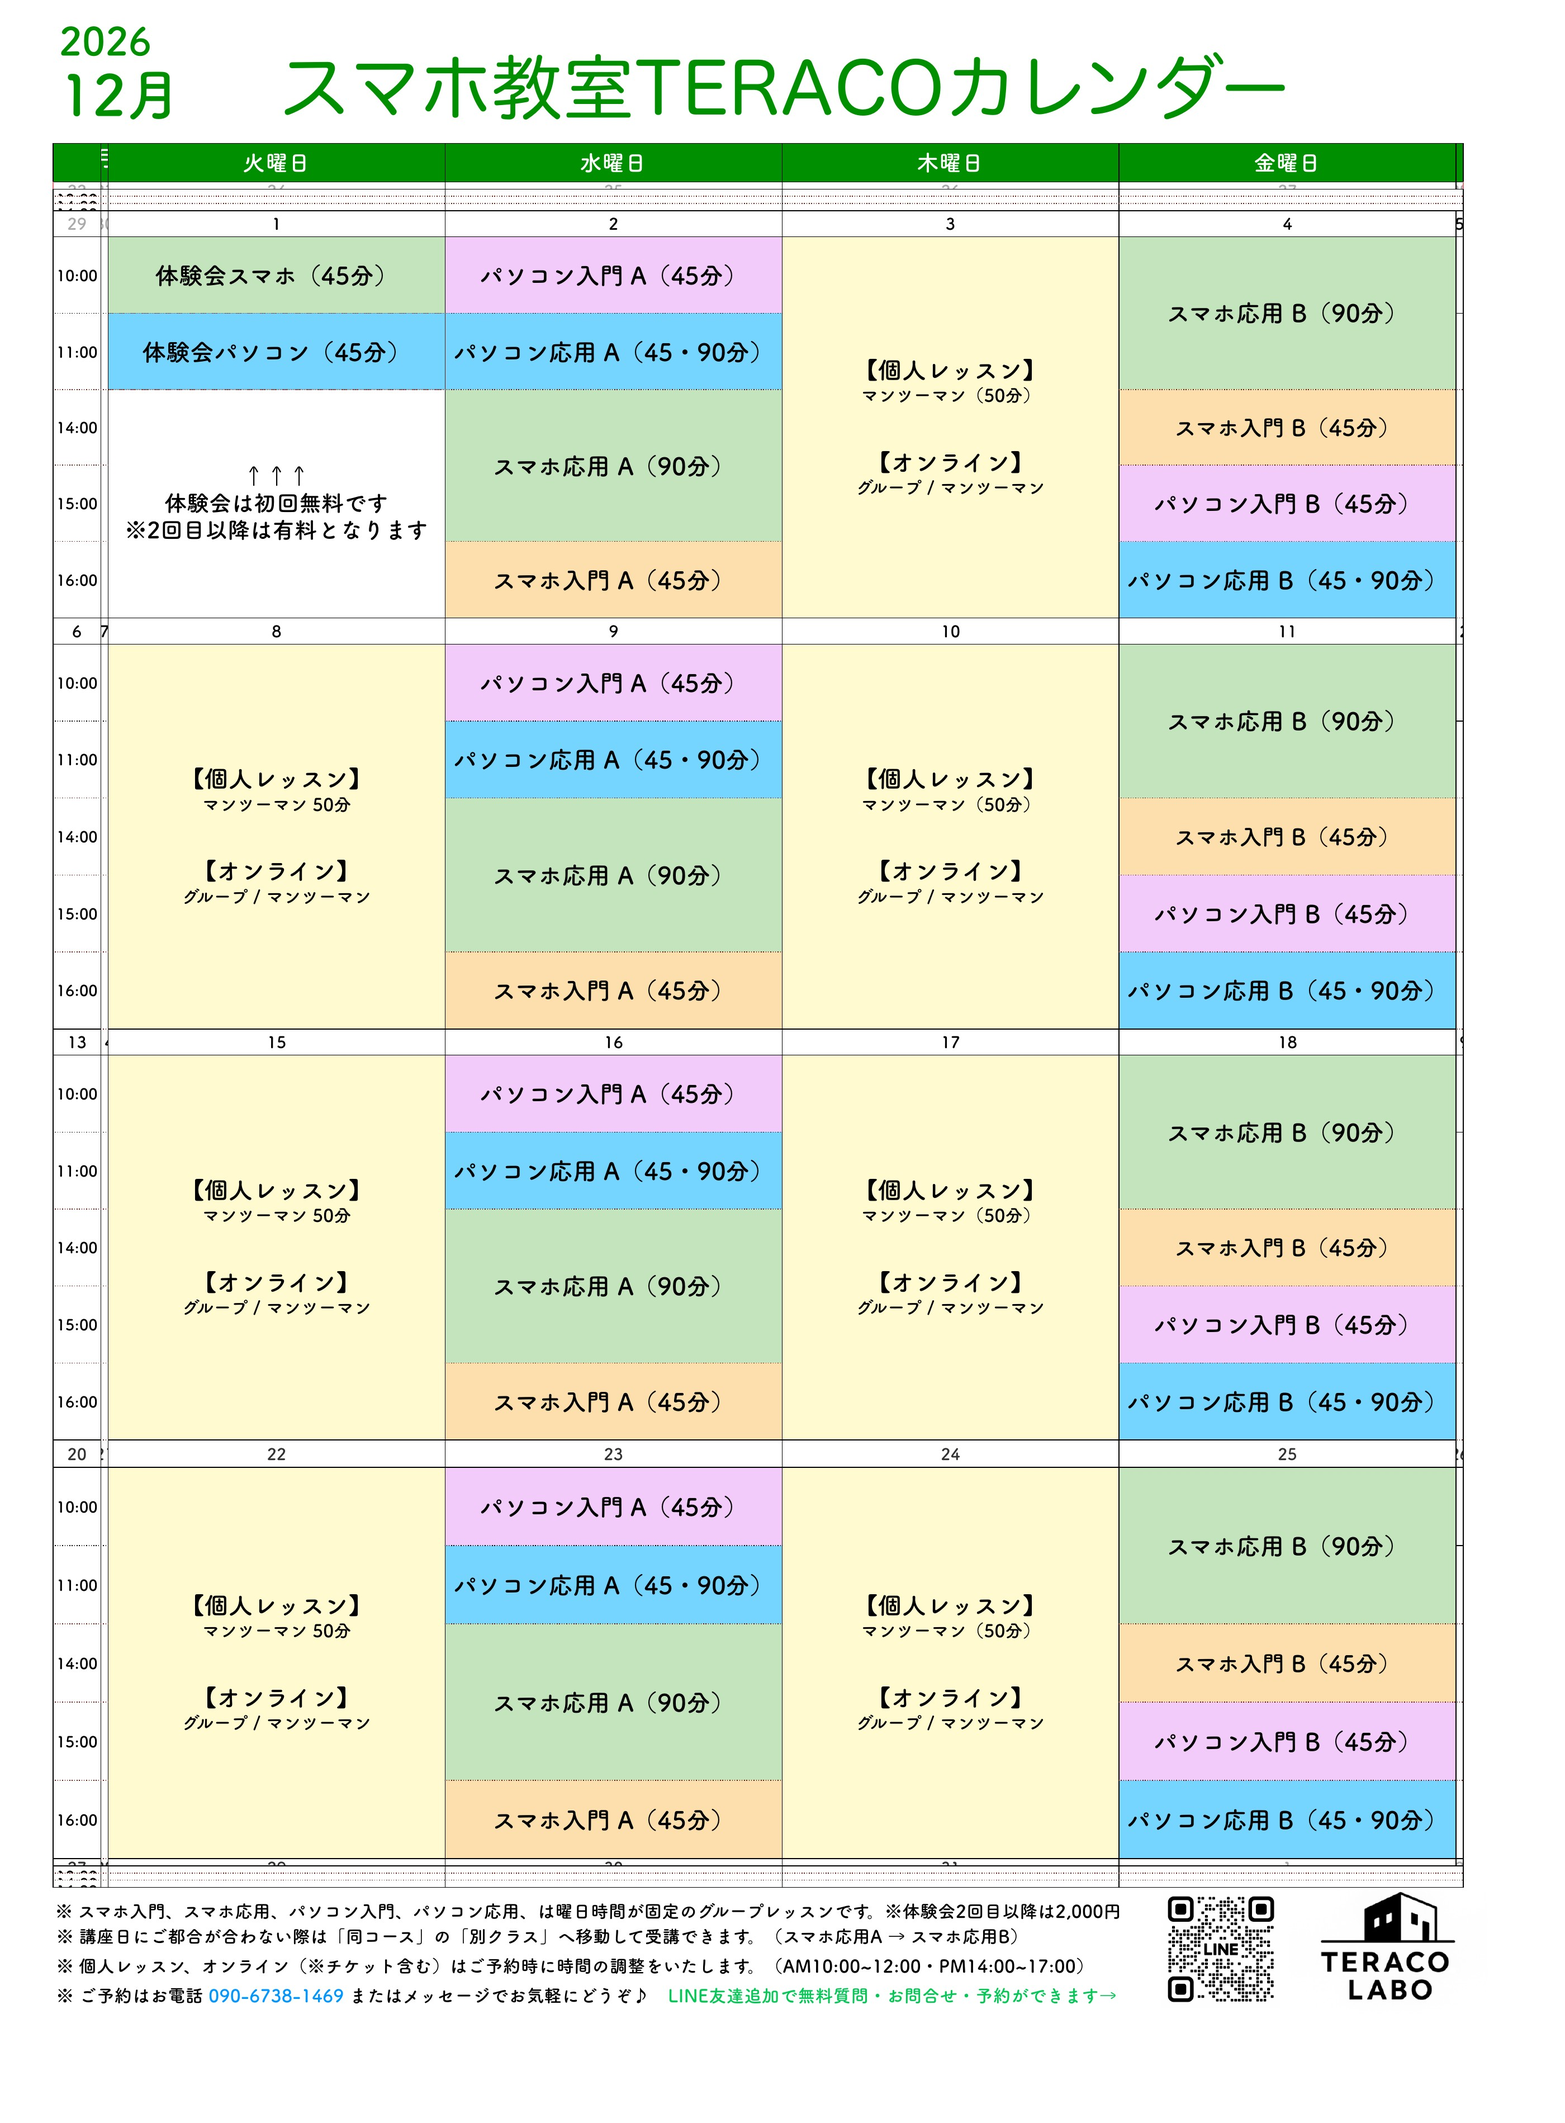
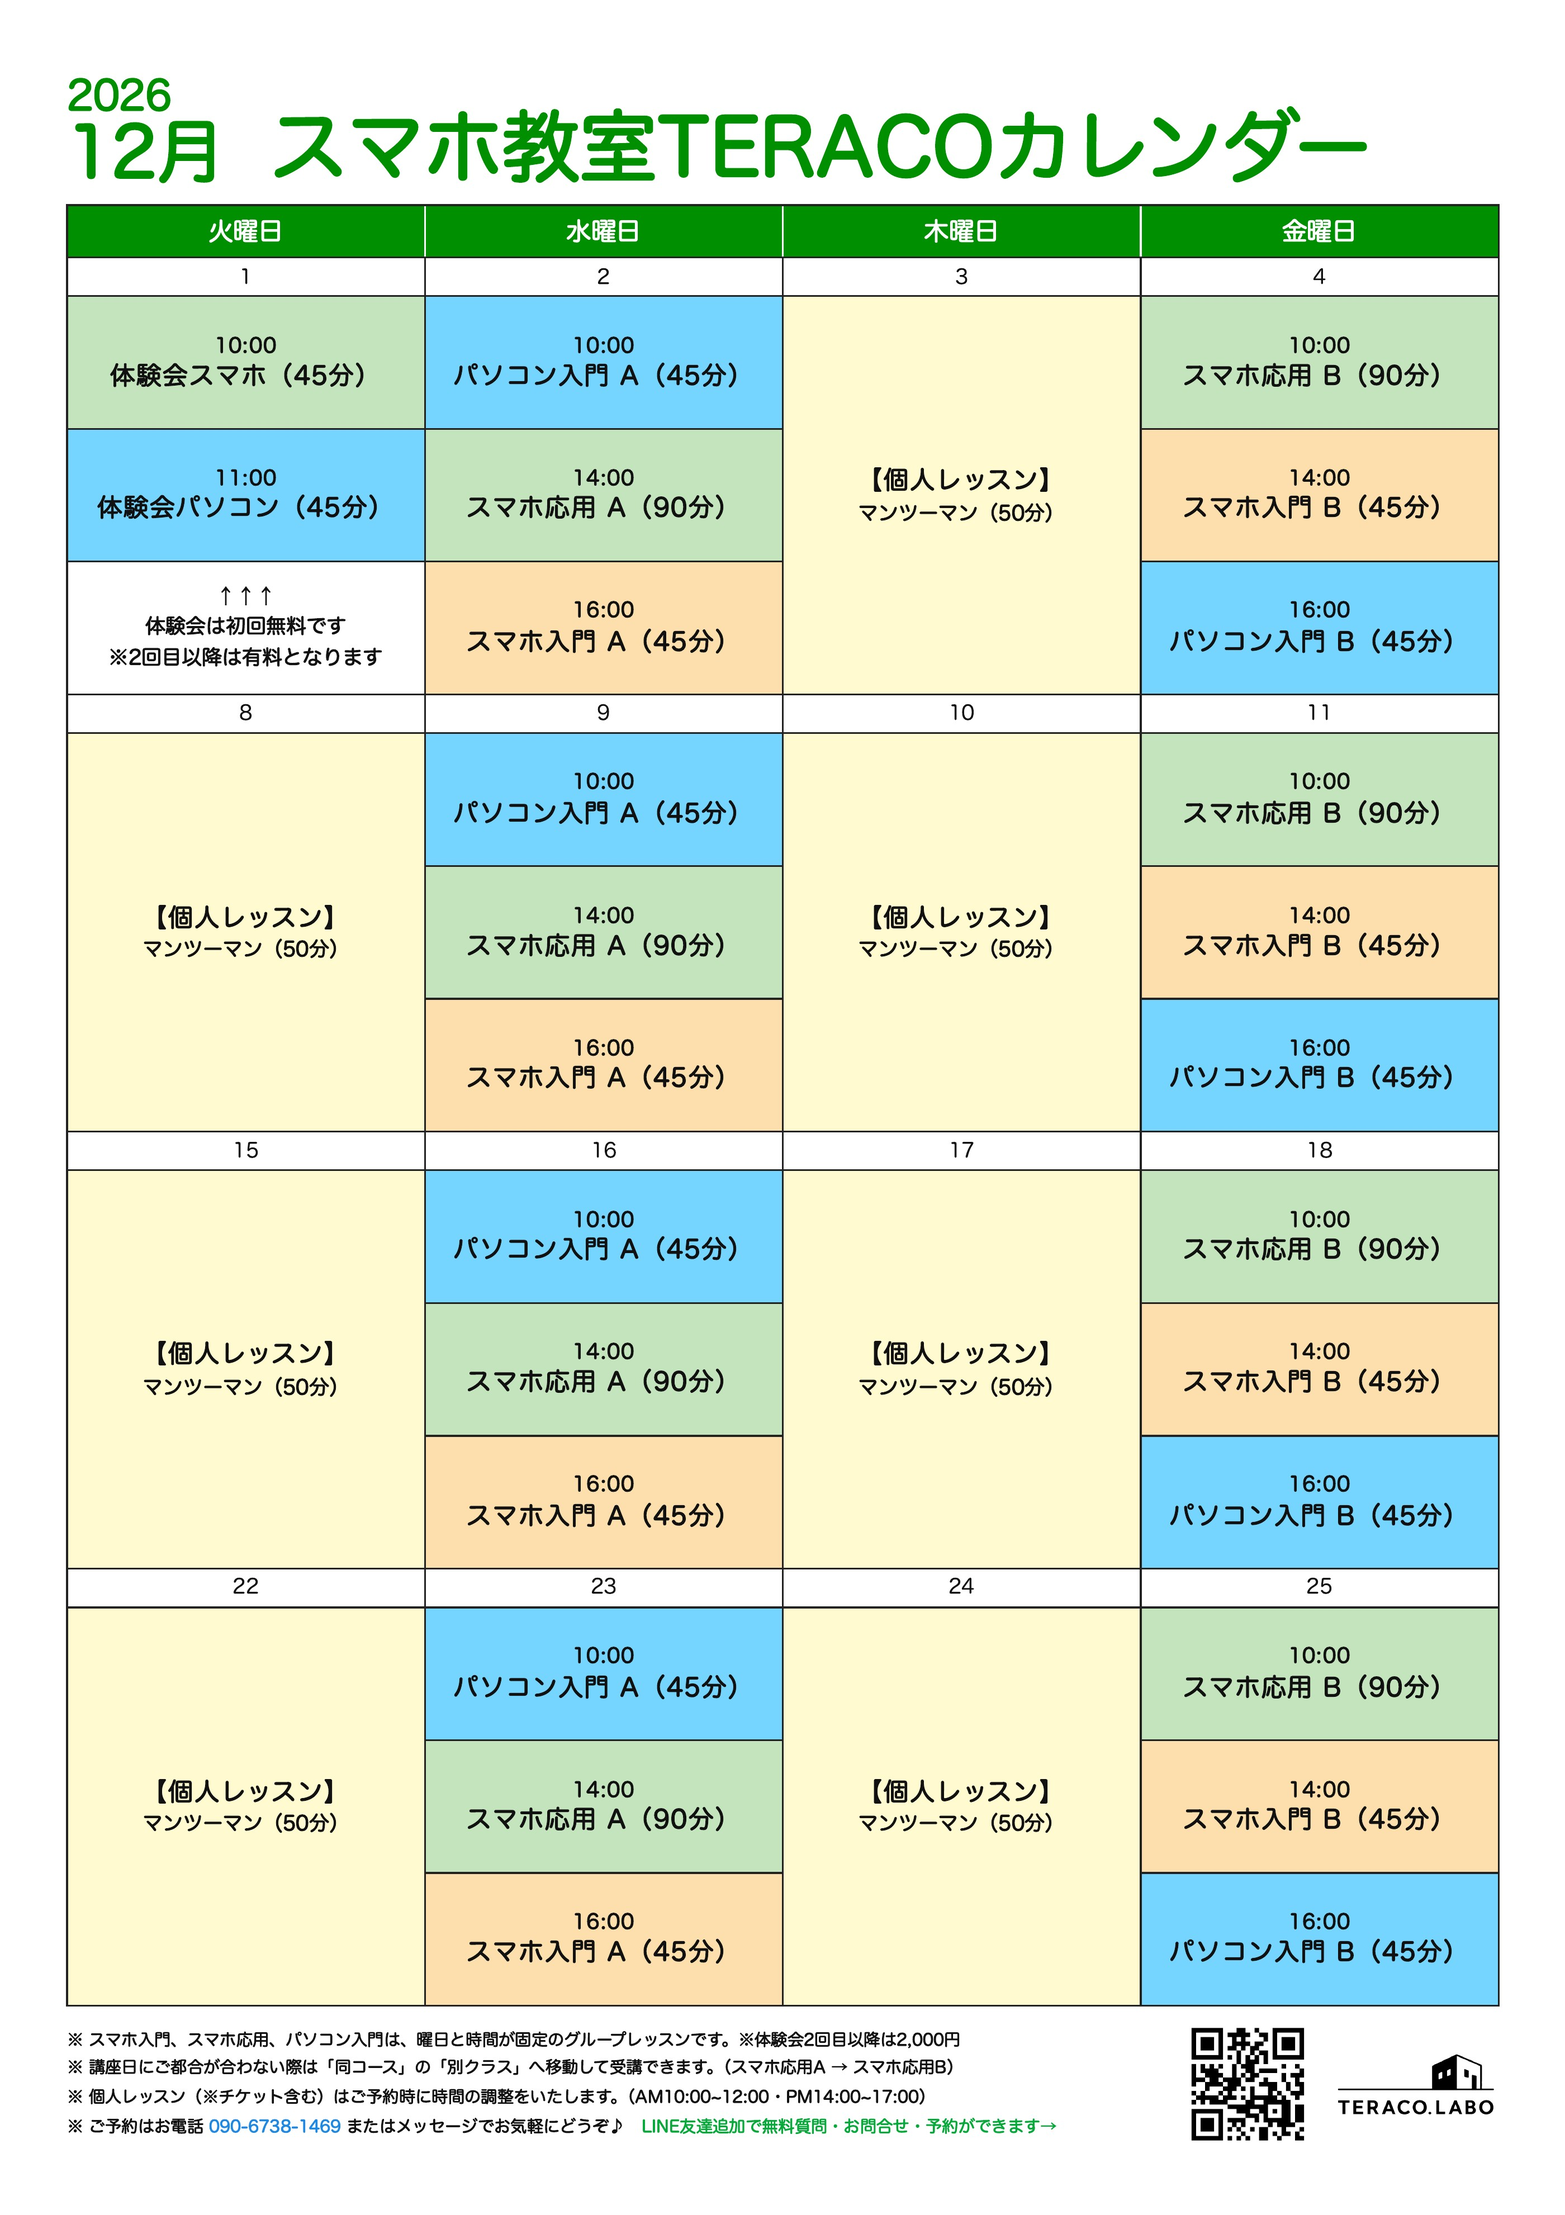
feat(pwa-reserve): 11月からの時間割（パソコン入門 水10・金16・水色、パソコン応用は時間割から外す）と講座カレンダー11月〜3月の差し替え（app n31）

diff --git a/pwa-reserve/app.js b/pwa-reserve/app.js
@@ -18,7 +18,10 @@ const ADMIN_TIMES   = TT.adminTimes;
 const CATEGORIES    = TT.categories;
 const COURSES       = TT.courses;
 const FURIKAE = true;    // 同じコースの別クラス（A↔B・分数は同じ）の日もえらべる（2026-09-25 藤崎さん指示）。false にすると自分のクラスの日だけ
-const OLD_COURSE_KEYS = { intro: 'sp-intro', applied: 'sp-adv', basic: 'pc-intro', advance: 'pc-adv' };
+const OLD_COURSE_KEYS = { intro: 'sp-intro', applied: 'sp-adv', basic: 'pc-intro', advance: 'pc-intro' };
+// いま時間割にない講座（closed）を選んでいた人の行き先（2026-11〜 パソコン応用→パソコン入門、A/B はそのまま）
+const CLOSED_TO = { 'pc-adv': 'pc-intro' };
+const liveCourse = (k) => (COURSES[k] && COURSES[k].closed && CLOSED_TO[k]) ? CLOSED_TO[k] : (OLD_COURSE_KEYS[k] || k);
 
 // 講座カレンダー。正本はサーバー（管理者画面「講座カレンダー」で編集）。下はサーバーから受け取る前の予備の値
 let SCHEDULE = {
@@ -88,7 +91,7 @@ const dowTimeText = (c) => `${DAYS[c.dow]}曜 ${c.time}`;
 // クラス名には必ず分数を入れる（例：スマホ入門 A（45分）／個人レッスン（50分））
 function courseName(course, klass) {
   const c = COURSES[course]; if (!c) return '';
-  const mm = c.minLabel || c.min;   // 表示だけの分数（パソコン応用は暫定で「45・90」）
+  const mm = c.minLabel || c.min;   // 表示だけの分数（minLabel があればそれ。2026-11〜はどの講座にも付けていない）
   return c.classes && klass ? `${c.label} ${klass}（${mm}分）` : `${c.label}（${mm}分）`;
 }
 function classText(p) {
@@ -111,7 +114,7 @@ function inferClass(e) {
   const pc = /パソコン|PC|ベーシック|アドバンス/.test(t);
   let course = null;
   if (/個人/.test(t)) course = 'private';
-  else if (/応用|アドバンス/.test(t)) course = pc ? 'pc-adv' : 'sp-adv';
+  else if (/応用|アドバンス/.test(t)) course = pc ? liveCourse('pc-adv') : 'sp-adv';
   else if (/入門|ベーシック/.test(t)) course = pc ? 'pc-intro' : 'sp-intro';
   if (!course) return null;
   let klass = null;
@@ -384,7 +387,7 @@ function viewNameConfirm() {
 function viewCourse() {
   const back = S.proxy ? (S.proxy.course ? 'home' : 'admin-home') : (S.edit === 'class' ? 'home' : 'ob-back-name');
   return `<h1>どの講座ですか？</h1>
-  ${Object.keys(COURSES).map(k => `<button class="choice" data-act="course" data-v="${k}" style="border-left:16px solid ${COURSES[k].color};"><b>${esc(courseName(k))}</b>${k === 'private' ? '<span>先生と1対1</span>' : ''}</button>`).join('')}
+  ${Object.keys(COURSES).filter(k => !COURSES[k].closed).map(k => `<button class="choice" data-act="course" data-v="${k}" style="border-left:16px solid ${COURSES[k].color};"><b>${esc(courseName(k))}</b>${k === 'private' ? '<span>先生と1対1</span>' : ''}</button>`).join('')}
   <p class="muted center" style="margin:6px 0 14px;">わからないときは、先生におたずねください。</p>
   <button class="btn quiet" data-act="${back}">もどる</button>`;
 }
@@ -895,7 +898,7 @@ async function loadAdminStudents() {
 async function pickPerson(raw) {
   const name = normName(raw); if (!name) return;
   const saved = store.get('tr_admin_people', {})[name] || {};
-  S.proxy = { name, category: saved.category || null, course: OLD_COURSE_KEYS[saved.course] || saved.course || null, klass: saved.klass || null, usual: saved.usual || null };
+  S.proxy = { name, category: saved.category || null, course: saved.course ? liveCourse(saved.course) : null, klass: saved.klass || null, usual: saved.usual || null };
   const recent = [name].concat(store.get('tr_admin_recent', []).filter(n => n !== name)).slice(0, 10); store.set('tr_admin_recent', recent);
   resetPicks(); S.loaded = false; S.existing = []; S.admin.history = null; S.admin.query = '';
   busy(true, `${name}さんの予約を開いています…`); await loadData({ quiet: true }); busy(false);
@@ -1032,7 +1035,7 @@ function act(a, el) {
 // ---------- 起動 ----------
 (function start() {
   lineInit();
-  if (S.profile && OLD_COURSE_KEYS[S.profile.course]) { S.profile.course = OLD_COURSE_KEYS[S.profile.course]; S.profile.usual = null; store.set('tr_profile', S.profile); }
+  if (S.profile && S.profile.course && liveCourse(S.profile.course) !== S.profile.course) { S.profile.course = liveCourse(S.profile.course); S.profile.usual = null; store.set('tr_profile', S.profile); }
   if (isAdmin()) { act('admin-home', document.body); return; }
   const c = S.profile && COURSES[S.profile.course];
   if (S.profile && S.profile.name && c && (!c.classes || S.profile.klass)) { S.view = 'home'; loadData(); }

diff --git a/pwa-reserve/timetable.js b/pwa-reserve/timetable.js
@@ -6,9 +6,9 @@ window.TERACO_TIMETABLE = {
   courses: {
     'sp-intro': { cat: 'smartphone', label: 'スマホ入門',   short: '入門', min: 45, color: '#F8DDB0', classes: { A: { dow: 3, time: '16:00' }, B: { dow: 5, time: '14:00' } } },
     'sp-adv':   { cat: 'smartphone', label: 'スマホ応用',   short: '応用', min: 90, color: '#C9E2C0', classes: { A: { dow: 3, time: '14:00' }, B: { dow: 5, time: '10:00' } } },
-    'pc-intro': { cat: 'pc_ai',      label: 'パソコン入門', short: '入門', min: 45, color: '#E6CDF5', classes: { A: { dow: 3, time: '10:00' }, B: { dow: 5, time: '15:00' } } },
-    // パソコン応用：正式は90分（料金表どおり）。今は旧ベーシックの45分の方が多いので、カレンダー表示だけ暫定で「45・90分」（2026-10-08 藤崎さん）。予定の長さ（min）は45分のまま
-    'pc-adv':   { cat: 'pc_ai',      label: 'パソコン応用', short: '応用', min: 45, minLabel: '45・90', color: '#A9DCFB', classes: { A: { dow: 3, time: '11:00' }, B: { dow: 5, time: '16:00' } } },
+    'pc-intro': { cat: 'pc_ai',      label: 'パソコン入門', short: '入門', min: 45, color: '#76D5FF', classes: { A: { dow: 3, time: '10:00' }, B: { dow: 5, time: '16:00' } } },   // 2026-11〜 水10・金16（水色）。旧ピンクの水10・金15は閉じた
+    // パソコン応用（正式90分）は2026-11〜 時間割にない（closed）。時間が決まったら classes を直して closed を外す。登録済みの人は同じA/Bのままパソコン入門に切り替わる
+    'pc-adv':   { cat: 'pc_ai',      label: 'パソコン応用', short: '応用', min: 90, color: '#E6CDF5', closed: true, classes: { A: { dow: 3, time: '11:00' }, B: { dow: 5, time: '16:00' } } },
     'private':  { cat: null,         label: '個人レッスン', short: '個人レッスン', min: 50, color: '#FDF3C4', classes: null }
   },
   privateDows: [2, 4],

diff --git a/pwa-reserve/index.html b/pwa-reserve/index.html
@@ -138,9 +138,9 @@
 <div id="busy"><div class="spin"></div><div id="busyText">おまちください</div></div>
 <script charset="utf-8" src="https://static.line-scdn.net/liff/edge/2/sdk.js"></script>
 <script src="line-config.js?v=3"></script>
-<script src="timetable.js?v=2"></script>
+<script src="timetable.js?v=3"></script>
 <script src="calendar-img/months.js?v=1"></script>
-<script src="app.js?v=n30"></script>
+<script src="app.js?v=n31"></script>
 <script>if ('serviceWorker' in navigator) { navigator.serviceWorker.register('sw.js').catch(function(){}); }</script>
 </body>
 </html>

diff --git a/pwa-reserve/使用書.md b/pwa-reserve/使用書.md
@@ -27,6 +27,8 @@
 - **体験会の予約**: 講座カレンダーに登録した予定のうち、**名前に「体験会」が入っているもの**は生徒さんがえらべる（初めての方も、在籍の方も。在籍の方は有料）。カレンダーの日付に「体験会」の札が出て、押すと時間の一覧に「10:00 体験会スマホ（45分）」のように出る。予約は「スマホ 体験会(45分)」「パソコンAI 体験会(45分)」の名前でカレンダーに入る（名前に「パソコン」があればパソコンAI）。定員8、月の回数には数えない。名前に「体験会」が無い予定（出張など）は選べない
 - **予約できる月**（2026-10-08〜）: **今月と来月の2か月**。管理者画面の「公開」には左右されない。休み・体験会は講座カレンダーに登録した分がそのまま効くので、来月分は月が変わる前に登録しておく。それより先の月は、画像がある月まで見るだけできる
 
+- **2026-11〜の時間割**: 水 10:00 パソコン入門A（45分）・14:00 スマホ応用A（90分）・16:00 スマホ入門A（45分）／金 10:00 スマホ応用B（90分）・14:00 スマホ入門B（45分）・16:00 パソコン入門B（45分）／火・木 個人レッスン。パソコン入門は水色。旧ピンクのパソコン入門（水10・金15）は閉じ、パソコン応用（正式90分）は時間が決まるまで時間割にない（timetable.js の `closed: true`）。パソコン応用で登録していた人は、同じA/Bのままパソコン入門に自動で切り替わる。料金表・ホームページ・Googleビジネスプロフィールのパソコン応用の料金は残す
+- **講座カレンダーの作り方（2026-10-22〜・11月以降）**: `python3 ~/ai-office/bin/teraco_calendar_build.py YYYY-MM 出力フォルダ` で A4 縦の PDF を作る（休み・体験会はこの講座カレンダーから自動、祝日名はスクリプトの表）。表の線は全部0.25mm、文字は2段階、QR はてらこ先生の公式LINE（@381）。できた PDF を iCloud「3.教室/教室カレンダー」に置き、PNG（幅2480px）と予約アプリの `calendar-img/calendar-YYYY-MM.jpg`（幅2800px）を作って、calendar.html の `?v=` を上げる。Numbers（★TERACOカレンダー）は10月までの元
 - **講座カレンダー画像の作り方（2026-10-21〜）**: Numbers（★TERACOカレンダー）から1か月1枚の PDF を iCloud「3.教室/教室カレンダー」に `教室カレンダー_YYYY年MM月.pdf` で書き出し → `~/ai-office/bin/teraco_calendar_publish.sh` を実行。表の縦線の途切れを実線で埋め（元の PDF は 旧/ に控え）、フォルダの PNG（幅2480px）と予約アプリの `calendar-img/calendar-YYYY-MM.jpg`（幅2800px・スマホで拡大してもにじまない）を作り直す。差し替えたら calendar.html の `?v=` を1つ上げる
 - **2026-10-08 講座カレンダー画像（calendar-img）から登録済み**: 体験会（11/10・12/1・1/5・2/2・3/9 の火10時スマホ・11時パソコン）、休み（11/3・12/29〜1/1・2/11・2/23・3/3）、体験会の日の午後（14〜17時を「午後お休み」として個人レッスンを止める）。画像を差し替えたら、ここも合わせて登録しなおす
 - **同じ講座の予定は1つにまとまる（GAS v60）**: 予約を入れるとき、同じ時刻に同じ講座（スマホ／パソコン・応用／入門・分数が同じ）の予定があれば、名前が古くても（例「応用てらこ」）そこに入れる。新しく作るときは A（水）／B（金）の新しい名前に直す。分かれてしまった予定は管理者用の `admin_merge_duplicates`（passcode 必須、dry:true で下見）でまとめられる。古い予定は生徒さんへ通知を出さずに消す
@@ -105,6 +107,7 @@
 | 2026-09-25 | app n22: 画面の説明文を最小限に（回数は「10月は、あと4回えらべます」だけ。コースの回数・繰り越し・名簿の話は出さない。凡例も3行に） |
 | 2026-09-25 | app n21: 「電話で相談」を廃止。締切後の予約はボタンなしで薄く表示 |
 | 2026-09-25 | app n20: 取り消しを「複数えらんで最終確認」に（チェック式→えらんだ○件を取り消す→確認画面）。予約ごとの「取り消す」ボタンは廃止 |
+| 2026-10-22 | app n31: 11月からの時間割（パソコン入門 水10・金16・水色、パソコン応用は時間割から外す）。講座カレンダー11月〜3月を新しい作り方（線0.25mm・文字2段階・オンライン表記なし・てらこ先生のQR）で差し替え |
 | 2026-10-21 | 講座カレンダー画像を幅1400px→2800pxに（荒さの解消）。10月・11月の第1週10時の段で、時刻と火曜の間の縦線が点線になっていたのを実線に（Numbers の書き出しを補修）。教室カレンダーのフォルダの PDF・PNG も差し替え |
 | 2026-10-08 | app n30: パソコン応用の表示を暫定で「45・90分」に（正式は90分。今は旧ベーシックの45分の方が多い）。timetable.js の minLabel。予定の長さは45分のまま。Numbers（★TERACOカレンダー.numbers のシート R8.10-1〜R9.3）も同じ表記に直し、画像6枚を差し替え。控え ★TERACOカレンダー（控え_2026-10-08_分数変更前）.numbers |
 | 2026-10-08 | GAS v60: 名前違いの同じ講座を1つの予定に（findEventAt・新規は新しい名前）、まとめ機能 admin_merge_duplicates。10/23 の「応用てらこ」（矢津田さん）を「応用B」にまとめた。講座カレンダーに体験会・休み・体験会の日の午後を登録 |
